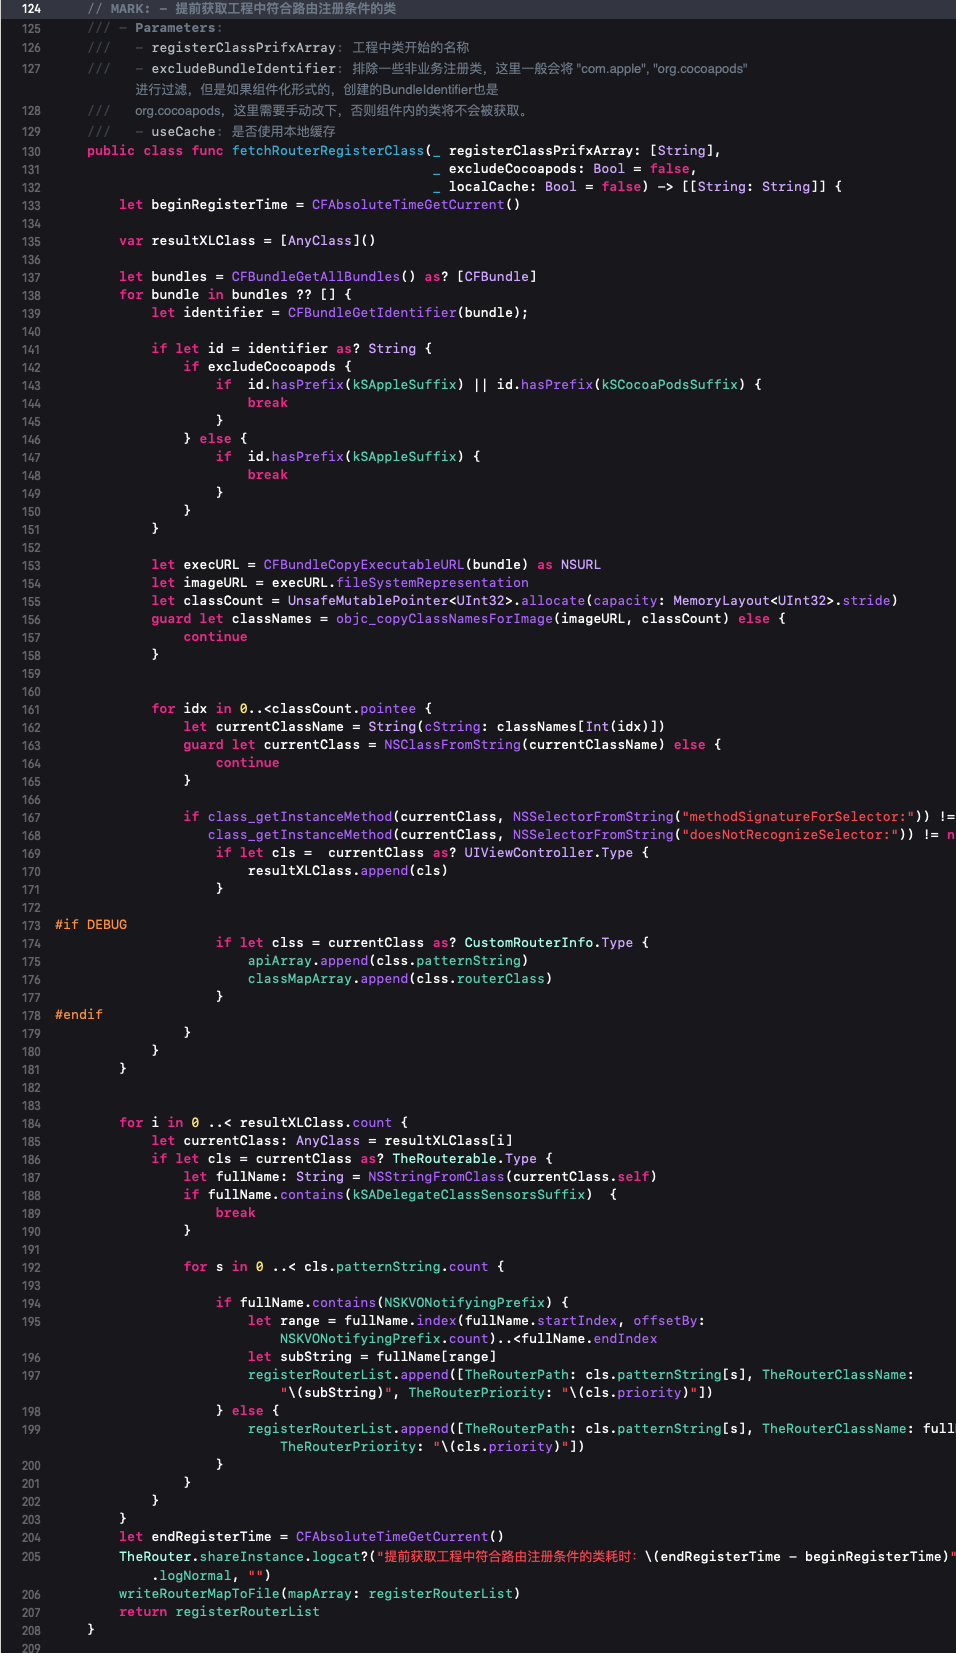
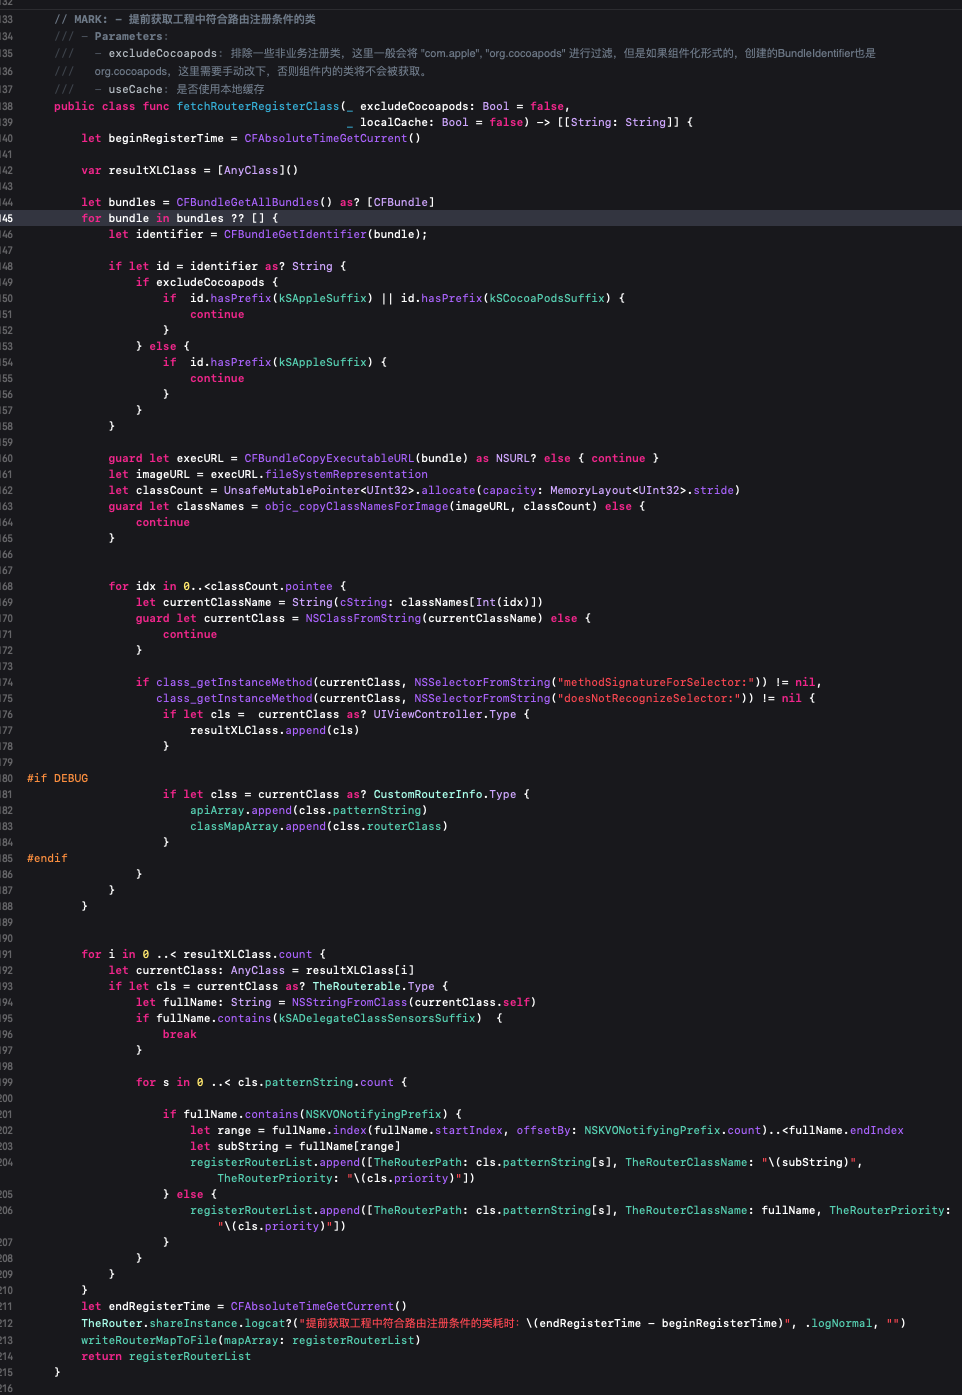
refine: 更新最新版本代码截图

diff --git a/TheRouter/Classes/TheRouterManager.swift b/TheRouter/Classes/TheRouterManager.swift
@@ -132,7 +132,7 @@ extension TheRouterManager {
     
     // MARK: - 提前获取工程中符合路由注册条件的类
     /// - Parameters:
-    ///   - excludeBundleIdentifier: 排除一些非业务注册类，这里一般会将 "com.apple", "org.cocoapods" 进行过滤，但是如果组件化形式的，创建的BundleIdentifier也是
+    ///   - excludeCocoapods: 排除一些非业务注册类，这里一般会将 "com.apple", "org.cocoapods" 进行过滤，但是如果组件化形式的，创建的BundleIdentifier也是
     ///   org.cocoapods，这里需要手动改下，否则组件内的类将不会被获取。
     ///   - useCache: 是否使用本地缓存
     public class func fetchRouterRegisterClass(_ excludeCocoapods: Bool = false,
